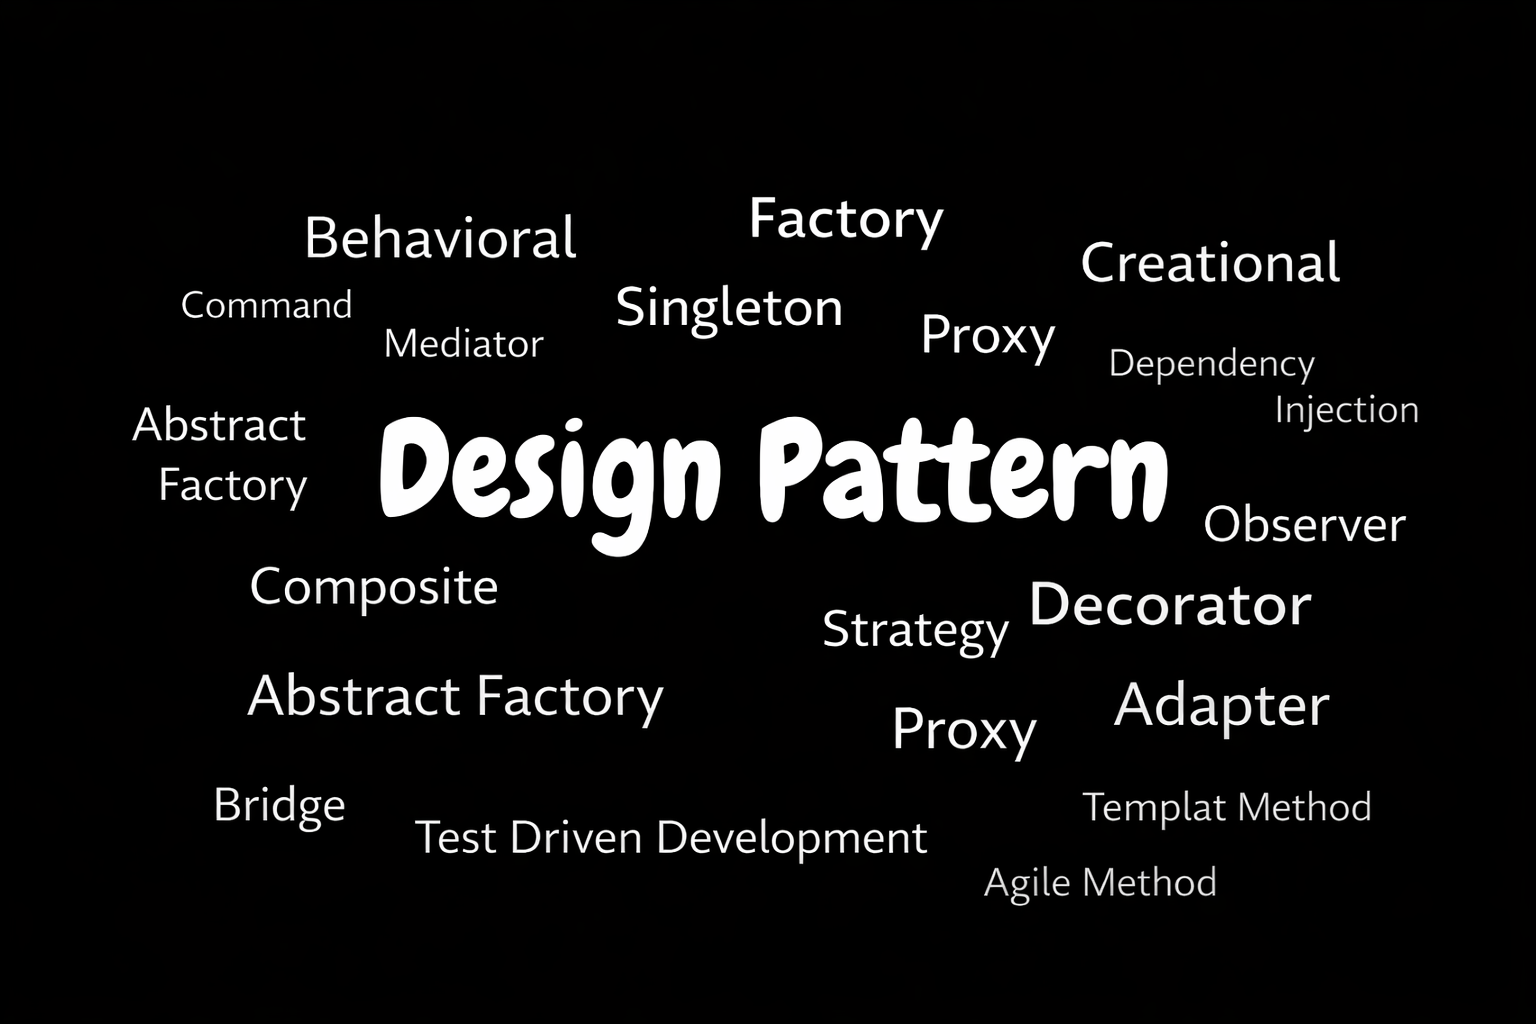
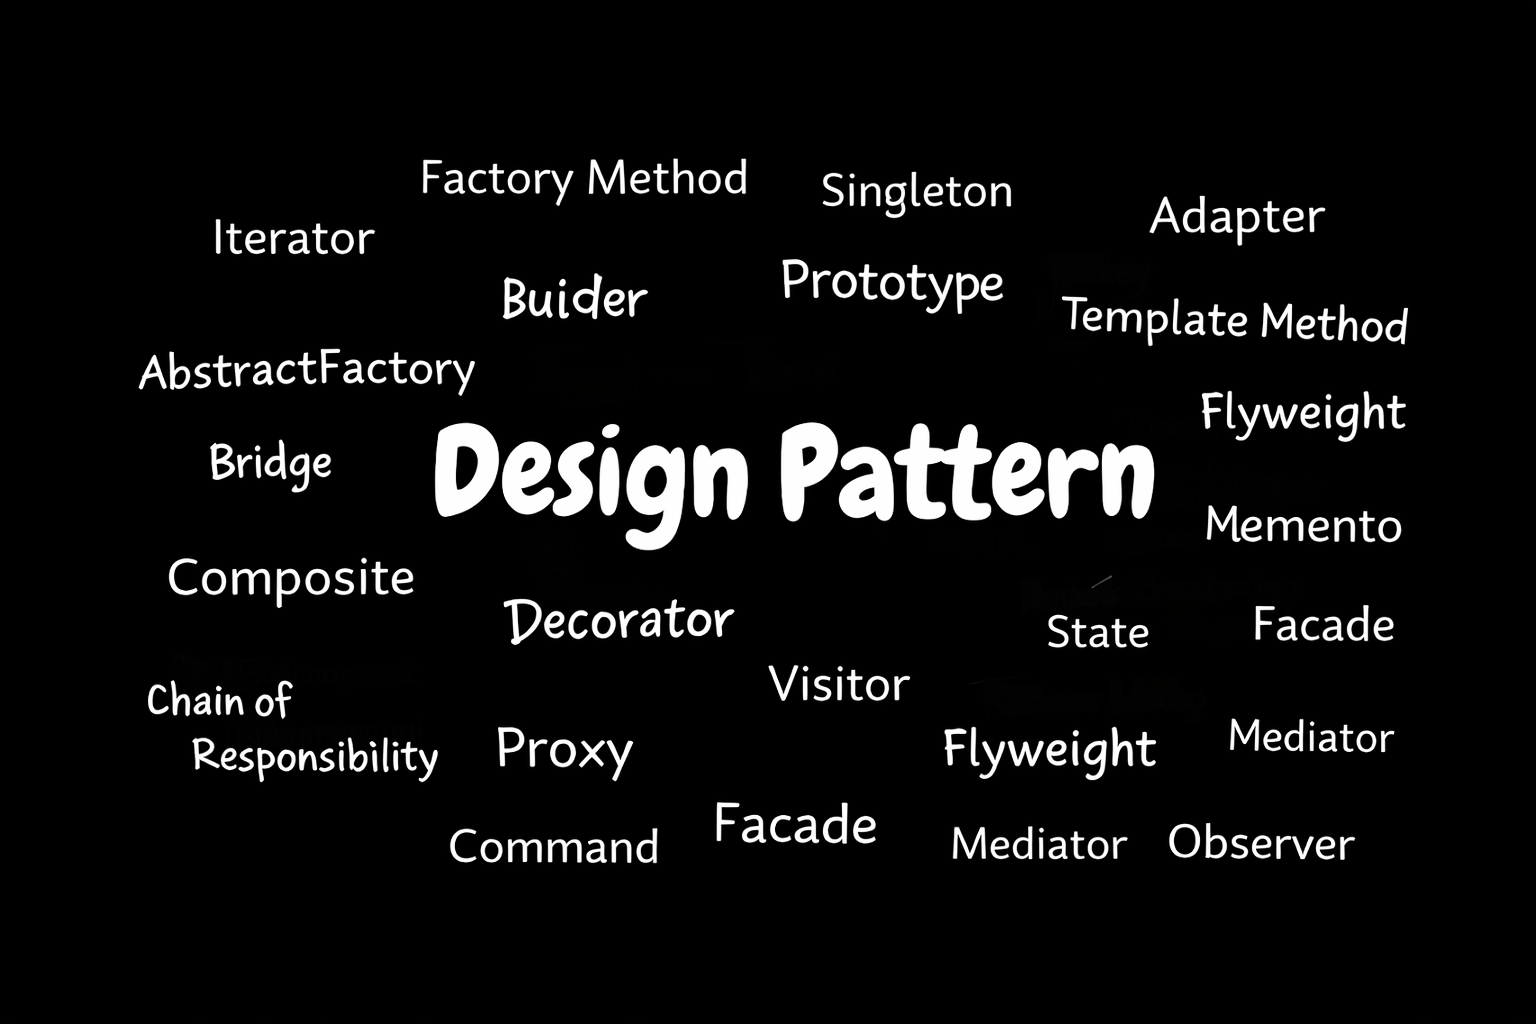
docs: write about prototype pattern

diff --git a/_posts/design pattern/2026-01-09-[Design Pattern] Prototype.md b/_posts/design pattern/2026-01-09-[Design Pattern] Prototype.md
@@ -1,0 +1,148 @@
+---
+title: "[Design Pattern] Prototype"
+author: bienew22
+date: 2026-01-09 16:00:00 +0900
+categories: [개념 정리, Design Pattern]
+tags: [디자인 패턴, 프로토타입 패턴]
+media_subpath: /assets/img/_design-pattern
+image:
+    path: /base.png
+---
+제가 느낀 프로토타입(Prototype) 패턴의 키워드는 **"객체 복제"**입니다. 
+
+## **Prototype Pattern**
+프로토타입 패턴은 새로운 인스턴스를 만들 때 객체를 **새로 생성(`new`)하지 않고, 기존 객체를 복제(`.clone()`)**하여 인스턴스를 생성하는 패턴입니다.
+
+#### **_언제 필요한가?_**
+
+(1) 객체 생성 비용이 큰 경우
+: 예를 들어 뱀파이어 서바이벌 게임과 같이 다수의 적을 반복적으로 생성한다고 가정하겠습니다.
+만약 적 객체를 생성할 때 필요한 정보(체력, 공격력 등)를 매번 DB에서 조회하여 초기화한다면 새로운 적을 생성할 때마다 DB 접근이 발생하게 됩니다.
+이는 대량의 적을 한 번에 생성해야 하는 상황이 발생하게 되면 성능 저하의 주요 원인이 될 수 있습니다.
+따라서 이런 경우 적의 기본 정보를 한 번만 로딩하여 프로토타입 객체를 생성하고, 이를 복제하여 적을 생성하는 것이 더 효율적입니다.
+
+(2) 종류가 너무 많아 클래스로 관리하기 어려운 경우
+: 예를 들어 전략 시뮬레이션 게임을 한번 생각해 보겠습니다. 보병, 궁수, 포병 등 기본 병종을 기반으로 세부 스펙만 다른 약 100 여종의 병종이 존재한다고 가정 해 보겠습니다. 
+이러한 병종들을 모두 개별 클래스로 관리할 경우, 다수의 유사한 구조를 가진 파일을 작성해야 합니다. 
+이때 프로토타입 패턴과 Registry 구조를 함께 적용하면, 병종별 공통 구조를 하나의 클래스에서 관리하여 병종이 증가하여도 더 효율적으로 관리할 수 있게 됩니다.
+
+(3) 클래스로 인스턴스 생성이 어려운 경우
+: 예를 들어 캐릭터 커스터마이징 기능을 생각해 보겠습니다. 사용자는 캐릭터 외형, 능력치, 장비 등 다양한 요소를 조합하여 캐릭터를 생성합니다. 이러한 조합의 경우의 수가 매우 많아, 각 경우를 미리 클래스로 정의하고 관리하는 것은 불가능합니다. 이때 프로토타입을 적용하여 동일한 설정을 가진 캐릭터가 필요한 경우, 프로토타입 객체를 복제하여 인스턴스를 생성할 수 있습니다.
+
+---
+
+## **패턴 구조**
+![프로토타입 패턴 다이어그램](/94-prototype-1.png){: w="80%" .bg-white}
+
+- **Prototype**
+    - 인스턴스 복제를 위한 메소드 결정
+- **ConcretePrototype**
+    - 자신을 복제하는 방법을 구현
+- **Client**
+    - `new`가 아닌 복제를 통하여 인스턴스 생성
+
+---
+
+## **구현 예시**
+* **Prototype**
+    ```java
+    public abstract class Prototype implements Cloneable {
+        protected abstract Prototype createByClone() 
+            throws CloneNotSupportedException;
+
+        /**
+         * 모든 하위 클래스에서 단순히 clone()을 통하여 복제하면
+         * 아래 처럼 공통적으로 예외 처리 로직이 들어감.
+         * 따라서 템플릿 메소드 패턴을 적용하여 예외 처리 로직을 관리.
+         */
+        public final Prototype cloneMe() {
+            
+            Prototype p = null;
+
+            try {
+                p = (Prototype) createByClone();
+            } catch (CloneNotSupportedException e) {
+                System.out.println("CloneNotSupportedException");;
+            }
+            return p;
+        }
+    }
+    ```
+    > Java에서 인스턴스 복사하는 메소드로 `clone()`이 존재합니다. `clone()`을 실행할 경우 복사 대상이 되는 클래스는 `Clonable` 인터페이스를 구현해야만 합니다. 해당 인터페이스는 단순히 **'clone 메소드로 복제를 허용한다.'** 표시로 마커 인터페이스라고 부릅니다.
+    {: .prompt-info }
+
+* **ConcretePrototype**
+    ```java
+    public class ConcretePrototype extends Prototype{
+        @Override
+        protected Prototype createByClone() throws CloneNotSupportedException {
+            return (Prototype) clone();
+        }
+    }
+    ```
+
+* **Client**
+    ```java
+    public class Client {
+        public void start() {
+            ConcretePrototype origin = new ConcretePrototype();
+
+            ConcretePrototype other = origin.cloneMe();
+        }
+    }
+    ```
+
+* **Registry 사용한 경우**
+    ```java
+    public class Registry {
+        private Map<String, Prototype> map = new HashMap<>();
+
+        public void register(String name, Prototype prototype) {
+            map.put(name, prototype);
+        }
+
+        public Prototype create(String name) {
+            Prototype prototype = map.get(name);
+
+            return prototype.cloneMe();
+        }
+    }
+
+    public class Client {
+        // 등록
+        Registry factory = new Registry();
+
+        factory.register("p1", new ConcretePrototype());
+
+        // 복제
+        ConcretePrototype clone = factory.create("p1");
+    }
+    ```
+
+---
+
+## **Java에서 구현**
+실제 Java 프로그램으로 인스턴스를 복제해야 하는 경우, clone 보다는 복사 생성자나 복사 팩토리를 사용하는 것이 좋습니다. 그 이유는 `clone()`이 `protected`로 지정되어, 상속 관계가 없는 클래스의 `clone` 메소드를 호출하기 어렵기 때문입니다.
+
+* **복사 생성자**
+```java
+    public class ConcretePrototype extends Prototype{
+
+        public ConcretePrototype(ConcretePrototype origin) {
+            // ... 여기서 속성 복사
+            // ex) this.a = origin.getA();
+        }
+
+        @Override
+        protected Prototype createByClone() throws CloneNotSupportedException {
+            return new ConcretePrototype(this);
+        }
+    }
+```
+
+---
+
+## **참고 문헌**
+* Yuki, H. (2022). JAVA 언어로 배우는 디자인 패턴 입문(김성훈, 옮김). 영진닷컴.
+* <https://refactoring.guru/design-patterns/prototype>
+* <https://shan0325.tistory.com/26#google_vignette>

diff --git a/_posts/design pattern/2025-12-23-[Design Pattern] Template Method.md b/_posts/design pattern/2025-12-23-[Design Pattern] Template Method.md
@@ -5,8 +5,10 @@ date: 2025-12-23 12:59:00 +0900
 categories: [개념 정리, Design Pattern]
 tags: [디자인 패턴, 템플릿 메서드 패턴]
 media_subpath: /assets/img/_design-pattern
+image:
+    path: /base.png
 ---
-본문으로 들어가기에 앞서 제가 생각하는 템플릿 메서드(Template Method) 패턴은 **"처리 과정의 은닉"**입니다. 
+제가 느낀 템플릿 메서드(Template Method) 패턴의 키워드는 **"처리 과정의 은닉"**입니다. 
 
 ## **Template Method Pattern**
 템플릿이란 어떤 것을 만들 때 기본적인 틀이나 형식을 제공하여 사용자가 내용을 채워 넣을 수 있도록 만든 양식을 의미합니다.

diff --git a/_posts/design pattern/2025-12-03-[Design Pattern] Adapter.md b/_posts/design pattern/2025-12-03-[Design Pattern] Adapter.md
@@ -5,8 +5,10 @@ date: 2025-12-03 16:59:00 +0900
 categories: [개념 정리, Design Pattern]
 tags: [디자인 패턴, 어댑터 패턴]
 media_subpath: /assets/img/_design-pattern
+image:
+    path: /base.png
 ---
-본문으로 들어가기에 앞서 제가 생각하는 어댑터(Adapter) 패턴은 **"수정 없이 호환성 추가"**입니다. 
+제가 느낀 어댑터(Adapter) 패턴의 키워드는 **"수정 없이 호환성 추가"**입니다. 
 
 ## **Adapter Pattern**
 일상생활에서 사용하는 충전기는 220V의 교류 전원을 전자기기가 사용할 수 있도록 직류 전원으로 변환해 주는 역할을 합니다.

diff --git a/_posts/design pattern/2025-12-31-[Design Pattern] Factory Method.md b/_posts/design pattern/2025-12-31-[Design Pattern] Factory Method.md
@@ -5,8 +5,10 @@ date: 2025-12-31 10:00:00 +0900
 categories: [개념 정리, Design Pattern]
 tags: [디자인 패턴, 팩토리 메서드 패턴]
 media_subpath: /assets/img/_design-pattern
+image:
+    path: /base.png
 ---
-본문으로 들어가기에 앞서 제가 생각하는 팩토리 메서드(Factory Method) 패턴은 **"생성 책임 위임"**입니다. 
+제가 느낀 팩토리 메서드(Factory Method) 패턴의 키워드는 **"생성 책임 위임"**입니다. 
 
 ## **Factory Method Pattern**
 팩토리 메서드 패턴은 **템플릿 메서드 패턴을 인스턴스 생성에 적용한 패턴**입니다.

diff --git a/_posts/design pattern/2025-11-27-[Design Pattern] Iterator.md b/_posts/design pattern/2025-11-27-[Design Pattern] Iterator.md
@@ -6,8 +6,10 @@ last_modified_at: 2025-12-03 17:00:00 +0900
 categories: [개념 정리, Design Pattern]
 tags: [디자인 패턴, 반복자 패턴]
 media_subpath: /assets/img/_design-pattern
+image:
+    path: /base.png
 ---
-본문으로 들어가기에 앞서 제가 생각하는 반복자(Iterator) 패턴은 **"구현과 분리하여 반복할 수 있음"**입니다. 
+제가 느낀 반복자(Iterator) 패턴의 키워드는 **"구현과 분리하여 반복"**입니다. 
 
 ## **Iterator Pattern**
 저희는 코드를 작성하다 보면은 루프를 다양하게 사용됩니다. 

diff --git a/_posts/design pattern/2026-01-03-[Design Pattern] Singleton.md b/_posts/design pattern/2026-01-03-[Design Pattern] Singleton.md
@@ -5,8 +5,10 @@ date: 2026-01-03 18:00:00 +0900
 categories: [개념 정리, Design Pattern]
 tags: [디자인 패턴, 싱글톤 패턴]
 media_subpath: /assets/img/_design-pattern
+image:
+    path: /base.png
 ---
-본문으로 들어가기에 앞서 제가 생각하는 싱글톤(Singleton) 패턴은 **"외로운 인스턴스"**입니다. 
+제가 느낀 싱글톤(Singleton) 패턴의 키워드는 **"유일 객체"**입니다. 
 
 ## **Singleton Pattern**
 싱글톤 패턴은 인스턴스가 하나만 존재하는 것을 보증하는 패턴입니다.
